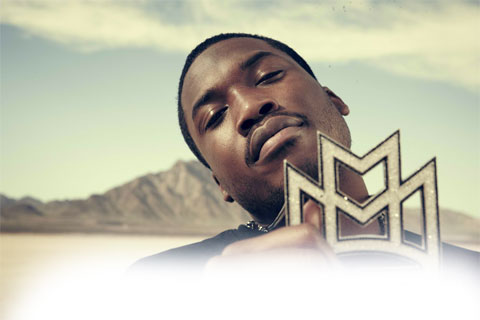
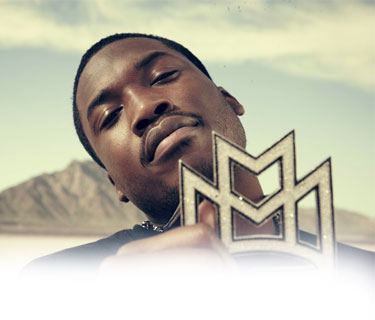
first image in feature re-added to match design

diff --git a/styles/styles.css b/styles/styles.css
@@ -233,8 +233,8 @@ nav {
 }
 
 .feature-item{
-    width: 310px;
-    height: 380px;
+    width: 380px;
+    height: 450px;
     margin: 50px 10px;
     flex-grow: 1;
     position: relative;
@@ -254,10 +254,11 @@ nav {
 
 .feature-content{
     position: absolute;
-    bottom: 15%;
+    bottom: 20%;
     left: 8%;
     padding: 10px;
-    line-height: 30px;
+    width: 80%;
+    line-height: 25px;
 }
 
 .view-button{
@@ -267,14 +268,14 @@ nav {
     border: 1px solid #e41a4e;
     box-shadow: 0px 3px 0px #a70e36;
     position: absolute;
-    bottom: 5%;
+    bottom: 7%;
     left: 10%;
     color: #ffffff;
 }
 .icon-button{
     height: 38px;
     position: absolute;
-    bottom: 4.5%;
+    bottom: 6.7%;
     left: 38%;
 }
 
